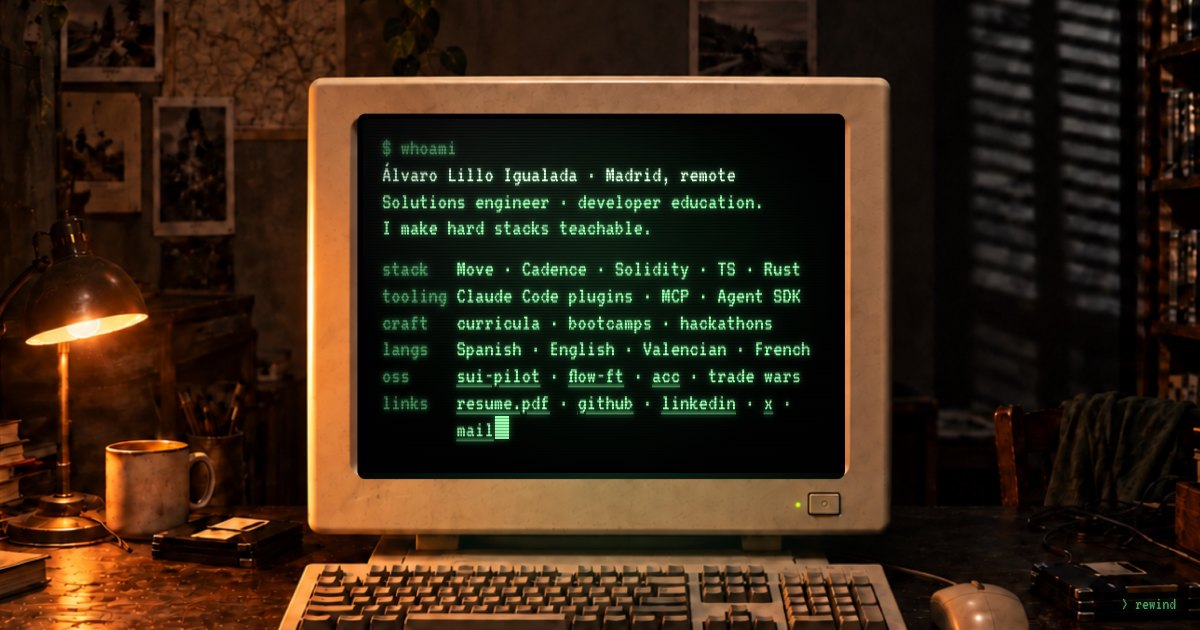
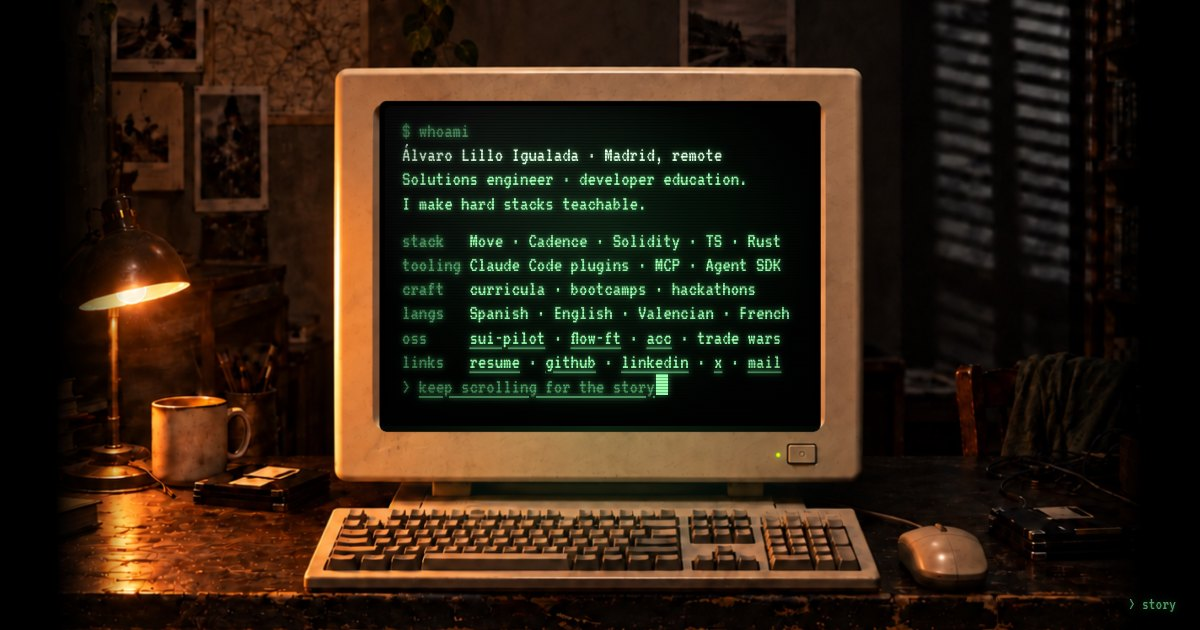
Welcome first, briefing second, then a dateless five-stage story
The screen order becomes: a welcome that addresses the reader as
{hiring_manager} and asks whether that niche profile exists, the briefing with
every link and a "keep scrolling for the story" line, then five chapters named
by stage (engineer, exchange, classroom, contracts, solutions). Each chapter
opens with a catchphrase title and closes with an "earned:" line; the last one
pays off the welcome. Dates and achievements leave the story for the résumé;
the parenting break stays as one dateless clause.

The corner control reads "> briefing" everywhere and "> story" on the
briefing. Old chapter ids alias to the new ones. profile.md records the order
and the story policy; the behaviour check follows the new route and waits for
the screen instead of a fixed delay; the social card is recaptured.

diff --git a/site/index.html b/site/index.html
@@ -42,87 +42,18 @@
     </div>
   </div>
 
-  <!-- The story. Each chapter must fit the screen grid: 46 columns by 12 rows, spacers count for half a row.
-       tools/check-viewports.mjs fails when a chapter overflows. ASCII art is plain ASCII only: VT323 has no box-drawing glyphs. -->
+  <!-- Screen order: welcome, briefing with the links, then five story chapters named by stage. No dates in the
+       story: the résumé carries the timeline. Each chapter must fit the screen grid, 46 columns by 12 rows,
+       spacers count for half a row; tools/check-viewports.mjs fails when a chapter overflows. ASCII art is plain
+       ASCII only: VT323 has no box-drawing glyphs. -->
   <div class="chapters" id="chapters">
 
     <article class="chapter" id="boot">
       <p class="dim">contracthero.dev · v3 · 2026</p>
       <p class="dim">loading profile: alvaro_lillo_igualada ... ok</p>
-      <p class="sp hi">Wake up.</p>
-      <p>A teacher who learned to write smart contracts, then went back to teaching them.</p>
-      <p class="sp dim">scroll to follow the white rabbit</p>
-      <p class="dim">&gt; or <a href="#briefing">skip to the briefing</a></p>
-    </article>
-
-    <article class="chapter" id="y2006">
-      <p class="cmd">$ cat 2006-2013.log</p>
-      <p class="hi">Telecommunication engineering, Madrid.</p>
-<pre class="sp">
-  MAD -----------------------------> HEL</pre>
-      <p>Erasmus year in Helsinki. First time explaining my ideas to a room that did not share my language.</p>
-      <p class="sp">Final thesis: home automation. Hired before it was finished.</p>
-      <p class="sp dim">earned: teaching across borders</p>
-    </article>
-
-    <article class="chapter" id="y2014">
-      <p class="cmd">$ cat 2014-2017.log</p>
-      <p class="hi">Bolsas y Mercados Españoles. Full stack.</p>
-      <p>The Spanish stock exchange.</p>
-<pre class="sp">
-  broker --FIX--> [ platform ] --> market</pre>
-      <p class="sp">Institutional trading, B2B. Support for people whose day depended on it. Transactions 20% faster.</p>
-      <p class="sp dim">earned: fintech, and calm on a bad day</p>
-    </article>
-
-    <article class="chapter" id="y2017">
-      <p class="cmd">$ cat 2017-2021.log</p>
-      <p class="hi">Detour one: the classroom.</p>
-      <p>Teaching master's, then four years as lead teacher in technical colleges.</p>
-<pre class="sp">
-  curriculum
-  |-- OOP · SQL · networks · web · sysadmin
-  |-- 4 schools · 60-120 students a year
-  '-- one syllabus, every teacher in sync</pre>
-      <p class="sp">Hard things, explained to every level, daily.</p>
-      <p class="dim">earned: "I make hard stacks teachable"</p>
-    </article>
-
-    <article class="chapter" id="y2022">
-      <p class="cmd">$ cat 2022-2023.log</p>
-      <p class="hi">Detour two: smart contracts.</p>
-      <p>Blockchain since college. Taught myself Cadence. Hired by Dapper Labs, on Flow.</p>
-<pre class="sp">
-  FLOW --+
-  USDC --+--> [ switchboard ] --> one vault
-  FUSD --+</pre>
-      <p class="sp">Authored the FT Switchboard and the FT Metadata standard. Open source, on mainnet.</p>
-      <p class="dim">earned: standards work, in the open</p>
-    </article>
-
-    <article class="chapter" id="y2023">
-      <p class="cmd">$ cat 2023-2025.log</p>
-      <p class="hi">Feb 2023: layoffs.</p>
-      <p>Seven months of parenting. Then freelance.</p>
-<pre class="sp">
-  Solidity --port--> Cadence    Band oracle
-  cBridge  --1.0---> audited    Celer
-  Trade Wars: an on-chain MMO on Sui</pre>
-      <p class="sp">Several clients, one engineer. Scoping, negotiating, shipping alone.</p>
-      <p class="dim">earned: owning the whole problem</p>
-    </article>
-
-    <article class="chapter" id="y2025">
-      <p class="cmd">$ cat 2025-now.log</p>
-      <p class="hi">Sui Foundation. Solutions engineer.</p>
-<pre>
-  teaching  --+
-              +--> developer education
-  contracts --+</pre>
-      <p class="sp">Bootcamps: five days of Move and a hackathon, then the local ambassadors run the next one. Ankara · Bucharest · Paris · online.</p>
-      <p>Hackathons: ETHGlobal NYC and Lisbon.</p>
-      <p>Tooling: sui-pilot, a Claude Code plugin.</p>
-      <p class="dim">earned: all paths, one job</p>
+      <p class="sp hi">Wake up, {hiring_manager}...</p>
+      <p>Ever felt like you're never gonna find that niche profile?</p>
+      <p class="sp dim">scroll down to find out</p>
     </article>
 
     <article class="chapter" id="briefing">
@@ -135,7 +66,59 @@
       <div class="kv"><span class="k">craft</span><span>curricula · bootcamps · hackathons</span></div>
       <div class="kv"><span class="k">langs</span><span>Spanish · English · Valencian · French</span></div>
       <div class="kv"><span class="k">oss</span><span><a href="https://github.com/contract-hero/sui-pilot">sui-pilot</a> · <a href="https://github.com/onflow/flow-ft">flow-ft</a> · <a href="https://github.com/contract-hero/agentic-community-college">acc</a> · trade wars</span></div>
-      <div class="kv"><span class="k">links</span><span><a href="resume.pdf">resume.pdf</a> · <a href="https://github.com/alilloig">github</a> · <a href="https://www.linkedin.com/in/alilloig">linkedin</a> · <a href="https://x.com/TheContractHero">x</a> · <a href="mailto:alilloig@gmail.com">mail</a></span></div>
+      <div class="kv"><span class="k">links</span><span><a href="resume.pdf">resume</a> · <a href="https://github.com/alilloig">github</a> · <a href="https://www.linkedin.com/in/alilloig">linkedin</a> · <a href="https://x.com/TheContractHero">x</a> · <a href="mailto:alilloig@gmail.com">mail</a></span></div>
+      <p class="dim">&gt; <a href="#engineer">keep scrolling for the story</a></p>
+    </article>
+
+    <article class="chapter" id="engineer">
+      <p class="cmd">$ cat 1-engineer.log</p>
+      <p class="hi">Systems first.</p>
+      <p>Telecommunication engineering in Madrid, an Erasmus year in Helsinki: the habit of taking a hard system apart until it makes sense, and of explaining it in a second language.</p>
+<pre class="sp">
+  MAD ---------------------------> HEL</pre>
+      <p class="sp dim">earned: learning hard systems fast</p>
+    </article>
+
+    <article class="chapter" id="exchange">
+      <p class="cmd">$ cat 2-exchange.log</p>
+      <p class="hi">Correctness has a price.</p>
+      <p>Full-stack engineer at the Spanish stock exchange. Institutional trading over FIX: production systems where a defect costs money and the people affected call you directly.</p>
+<pre class="sp">
+  broker --FIX--> [ platform ] --> market</pre>
+      <p class="sp dim">earned: engineering under real stakes</p>
+    </article>
+
+    <article class="chapter" id="classroom">
+      <p class="cmd">$ cat 3-classroom.log</p>
+      <p class="hi">Understanding is the deliverable.</p>
+      <p>A teaching master's, then lead teacher in technical colleges: hard concepts for every level of audience, daily, and a teaching team kept on one syllabus at one pace.</p>
+<pre class="sp">
+  curriculum
+  |-- explained at every level
+  '-- one syllabus, every teacher in sync</pre>
+      <p class="sp dim">earned: making hard things teachable</p>
+    </article>
+
+    <article class="chapter" id="contracts">
+      <p class="cmd">$ cat 4-contracts.log</p>
+      <p class="hi">Open standards, built in the open.</p>
+      <p>Self-taught in Cadence, then smart contract engineer at Dapper Labs: token standards for Flow, reviewed in public, live on mainnet. A layoff, seven months of parenting, then freelance: oracles, bridges, a game on Sui.</p>
+<pre class="sp">
+  FLOW --+
+  USDC --+--> [ switchboard ] --> one vault
+  FUSD --+</pre>
+      <p class="dim">earned: owning the whole problem</p>
+    </article>
+
+    <article class="chapter" id="solutions">
+      <p class="cmd">$ cat 5-solutions.log</p>
+      <p class="hi">Both halves became one job.</p>
+      <p>Solutions engineer at the Sui Foundation: bootcamps, hackathon workshops, training the local trainers, partner support, developer tooling for web3 and AI on Claude Code.</p>
+<pre class="sp">
+  teaching  --+
+              +--> solutions engineering
+  contracts --+</pre>
+      <p class="sp dim">earned: the niche profile, found</p>
     </article>
 
   </div>

diff --git a/site/crt.js b/site/crt.js
@@ -12,7 +12,7 @@
 
   const PX_PER_CHAR = 3;          // scroll pixels per typed character; chapters are short, so a wheel notch types ~30 characters
   const HOLD = 0.6;               // viewport heights to rest on a finished chapter
-  const LAST_HOLD = 0.35;         // the briefing rests less: the page ends there
+  const LAST_HOLD = 0.35;         // the last chapter rests less: the page ends there
   const BOOT_MS = [12, 22];       // per-character delay while the boot chapter self-types (~4 s for the whole chapter)
   const AWAKE_PX = 30;            // scroll distance after which the reader has started
 
@@ -28,7 +28,8 @@
     return nodes;
   };
   // Section ids of the previous site, so old deep links still land somewhere sensible.
-  const ALIASES = { experience: 'y2006', teaching: 'y2017', tool: 'y2025', runtime: 'y2025', oss: 'y2025', program: 'y2025', claim: 'boot' };
+  const ALIASES = { experience: 'engineer', teaching: 'classroom', tool: 'solutions', runtime: 'solutions', oss: 'solutions', program: 'solutions', claim: 'boot',
+                    y2006: 'engineer', y2014: 'exchange', y2017: 'classroom', y2022: 'contracts', y2023: 'contracts', y2025: 'solutions' };
   const chapterIndex = id => chapters.findIndex(c => c.id === (ALIASES[id] || id));
 
   // Collapse HTML indentation so it does not count as typed characters. Whitespace-only nodes are
@@ -79,12 +80,13 @@
     frames.set(i, f);
     return f;
   }
-  // The corner control points at the briefing, and back to the start once the briefing is on screen.
-  const last = chapters.length - 1;
+  // The corner control points at the briefing from anywhere, and into the story while the briefing is on screen.
+  const briefingIdx = chapterIndex('briefing');
+  const storyId = chapters[briefingIdx + 1].id;
   function setJump(i) {
-    const back = i === last;
-    jump.textContent = back ? '> rewind' : '> briefing';
-    jump.setAttribute('href', back ? '#boot' : '#briefing');
+    const onBriefing = i === briefingIdx;
+    jump.textContent = onBriefing ? '> story' : '> briefing';
+    jump.setAttribute('href', onBriefing ? '#' + storyId : '#briefing');
   }
   let cur = -1, curN = -1, fontsReady = !document.fonts;   // the fallback font wraps differently: only judge overflow once the web font is in
   function paint(i, n) {

diff --git a/README.md b/README.md
@@ -3,8 +3,8 @@
 Personal site of Álvaro Lillo Igualada. Static HTML, CSS and one script, no build step.
 
 - `site/` is the published directory (see `netlify.toml`).
-- `site/index.html` is the landing page: a CRT monitor on a desk that types the professional story as the visitor scrolls, chapter by chapter, ending with a briefing and the contact links. All story copy lives in the `<article class="chapter">` blocks; the screen is their visual twin. The screen is a fixed terminal grid of 46 columns by 12 rows on every device, so each chapter must fit that box (`tools/check-viewports.mjs` fails when one does not). ASCII art goes in `<pre>` and must be plain ASCII: VT323 has no box-drawing glyphs. The corner control (`> briefing` / `> rewind`) and the meta tags carry their own copy. Without JavaScript the chapters render as a plain page.
-- `site/crt.js` drives the typing from the scroll position and flips the corner control on the briefing. `?show=<chapter id>` renders one chapter fully typed and static (useful for screenshots and the social card).
+- `site/index.html` is the landing page: a CRT monitor on a desk that types the page as the visitor scrolls: a welcome screen, the briefing with the contact links, then five story chapters named by stage. All story copy lives in the `<article class="chapter">` blocks; the screen is their visual twin. The screen is a fixed terminal grid of 46 columns by 12 rows on every device, so each chapter must fit that box (`tools/check-viewports.mjs` fails when one does not). ASCII art goes in `<pre>` and must be plain ASCII: VT323 has no box-drawing glyphs. The corner control (`> briefing` anywhere, `> story` on the briefing) and the meta tags carry their own copy. Without JavaScript the chapters render as a plain page.
+- `site/crt.js` drives the typing from the scroll position and switches the corner control to `> story` on the briefing. `?show=<chapter id>` renders one chapter fully typed and static (useful for screenshots and the social card).
 - `site/style.css` positions the text layer over the screen and adds the phosphor glow, scanlines and light spill. The room and the monitor are one square photo, `assets/room.jpg` (2048×2048, generated with Codex from the previous render as reference). The stage covers the viewport and is cropped around the centre of the screen; in portrait it zooms in until the screen spans 90% of the width, and in landscape it never scales past the point where the whole computer (wall above the bezel to the desk edge) fits the height, so wide displays get a narrower photo whose sides fade to black. The text layer is pinned to the black screen through `--ar` (the photo's aspect ratio) and the fractions `--sx/--sy/--sw/--sh` in `style.css`. If you regenerate the photo: set `--ar`, run `python3 tools/measure-screen.py site/assets/room.jpg 45 0.47` and paste the INSET line it prints.
 - `tools/` holds dev-only checks (`pnpm -C tools install` once). `node tools/check-viewports.mjs [--sheet out.html]` loads every chapter at 17 viewports in the installed Chrome and fails on overflow, a clipped screen, a misplaced corner control or type under 15px; `--sheet` writes a single-file contact sheet of screenshots. `node tools/social-card.mjs` recaptures `site/assets/social.jpg` (1200×630) from `index.html?show=briefing`.
 - `site/resume.pdf` is the downloadable résumé, built from `profile/resume.html` with `profile/build-resume.sh`.

diff --git a/profile/profile.md b/profile/profile.md
@@ -82,9 +82,14 @@ Status confirmed 2026-09-07: still employed, same role, after the August 2026 re
 
 ## Site story (contracthero.dev)
 
-The landing page tells the journey in seven screens plus a briefing; each chapter closes with one dim
-"earned:" line naming what that stage added. Chapter facts come from this file. The site carries fewer
-facts than the résumé on purpose: it is read on a CRT-sized 46×12 grid, one screen per chapter.
+Screen order (decided 2026-09-16): a welcome screen first (Matrix-style joke, "Wake up, {hiring_manager}..."
+with the placeholder left unresolved on purpose), then the briefing with every link, then five story chapters
+named by stage: engineer, exchange, classroom, contracts, solutions. Each chapter opens with a catchphrase
+title and closes with one dim "earned:" line; the last one pays off the welcome joke ("the niche profile,
+found"). No dates in the story: the résumé and LinkedIn carry the timeline. The parenting break is one clause
+without dates. The story sells how the engineering-educator profile was forged, not achievements; those stay
+on the résumé. The current role is worded as solutions engineer, web3 and AI; "forward deployed engineer" is
+not used. Chapter facts come from this file. The screen is a CRT-sized 46×12 grid, one screen per chapter.
 
 ## Open source (headline first)
 
